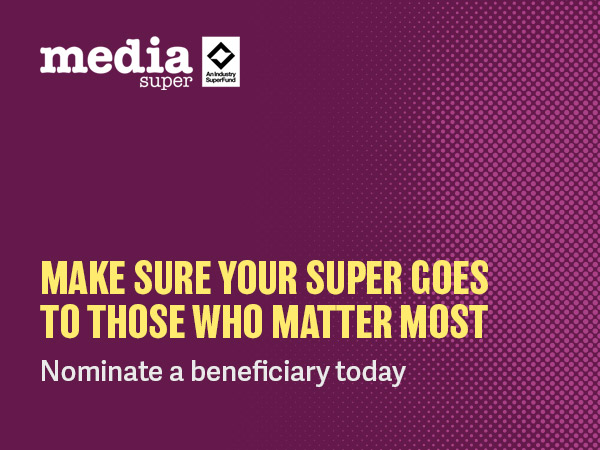
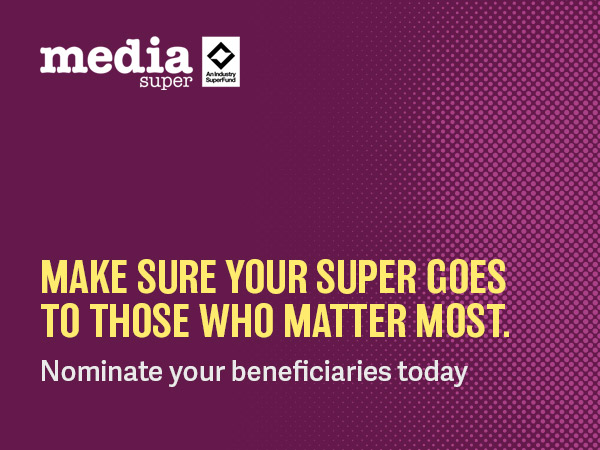
updte MS bene feedback

Changed region(s): [[0.06, 0.56, 0.84, 0.8711]]

diff --git a/emails/2022/tec/media-super-beneficiaries/index.html b/emails/2022/tec/media-super-beneficiaries/index.html
@@ -101,13 +101,14 @@
           <!-- Text -->
           <div style="Margin-left: 40px;Margin-right: 40px;">
               <p class="size-22 mso-body-text" style="Margin-top: 0;Margin-bottom: 20px;">
-                We’ve noticed you haven’t nominated anyone to receive your super and life insurance if you pass away. 
+                We've noticed you've not yet nominated a beneficiary on your account.
+                It's really important you organise for at least one person to receive your super savings and life insurance benefit if you pass away. This way, it ends up in the hands of those who matter most to you
               </p>
               <p class="size-22 mso-body-text" style="Margin-top: 0;Margin-bottom: 8px;">
-                It’s important you organise at least one beneficiary to ensure your super and life insurance ends up in the hands of those you want it to. 
+                <strong>It only takes 2 minutes</strong>
               </p>
               <p class="size-22 mso-body-text" style="Margin-top: 0;Margin-bottom: 8px;">
-                Take 2 minutes now to nominate your beneficiary. It's easy to do via your online Media Super account.
+                Nominate a beneficiary now via your online account:
               </p>
           </div>
 
